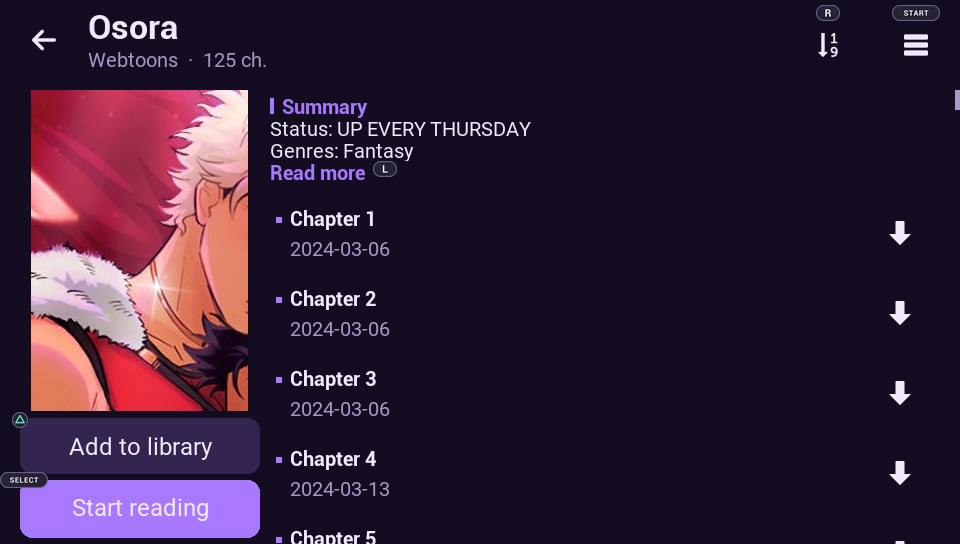
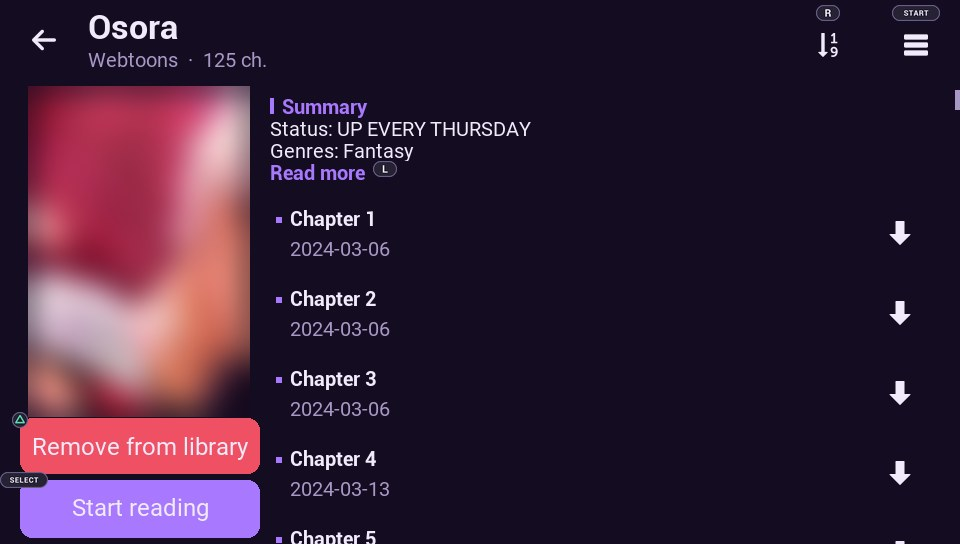
README: blur the cover art in the Library and details screenshots

Changed region(s): [[0.0, 0.1562, 0.2812, 0.875]]

diff --git a/README.md b/README.md
@@ -15,7 +15,7 @@ Interface in English, Portuguese (Brazil), Spanish, French, German, Italian, Rus
 | ![LiveArea](docs/screenshots/livearea.png) | ![Library](docs/screenshots/library.jpg) |
 | ![Title details and chapter list](docs/screenshots/details.jpg) | ![Installed sources in Browse](docs/screenshots/sources.png) |
 
-<sub>Screenshots taken with official, free sources (WEBTOON, Comics Kingdom). Covers belong to their respective owners.</sub>
+<sub>Cover art is blurred on purpose: covers belong to their respective owners.</sub>
 
 ---
 
